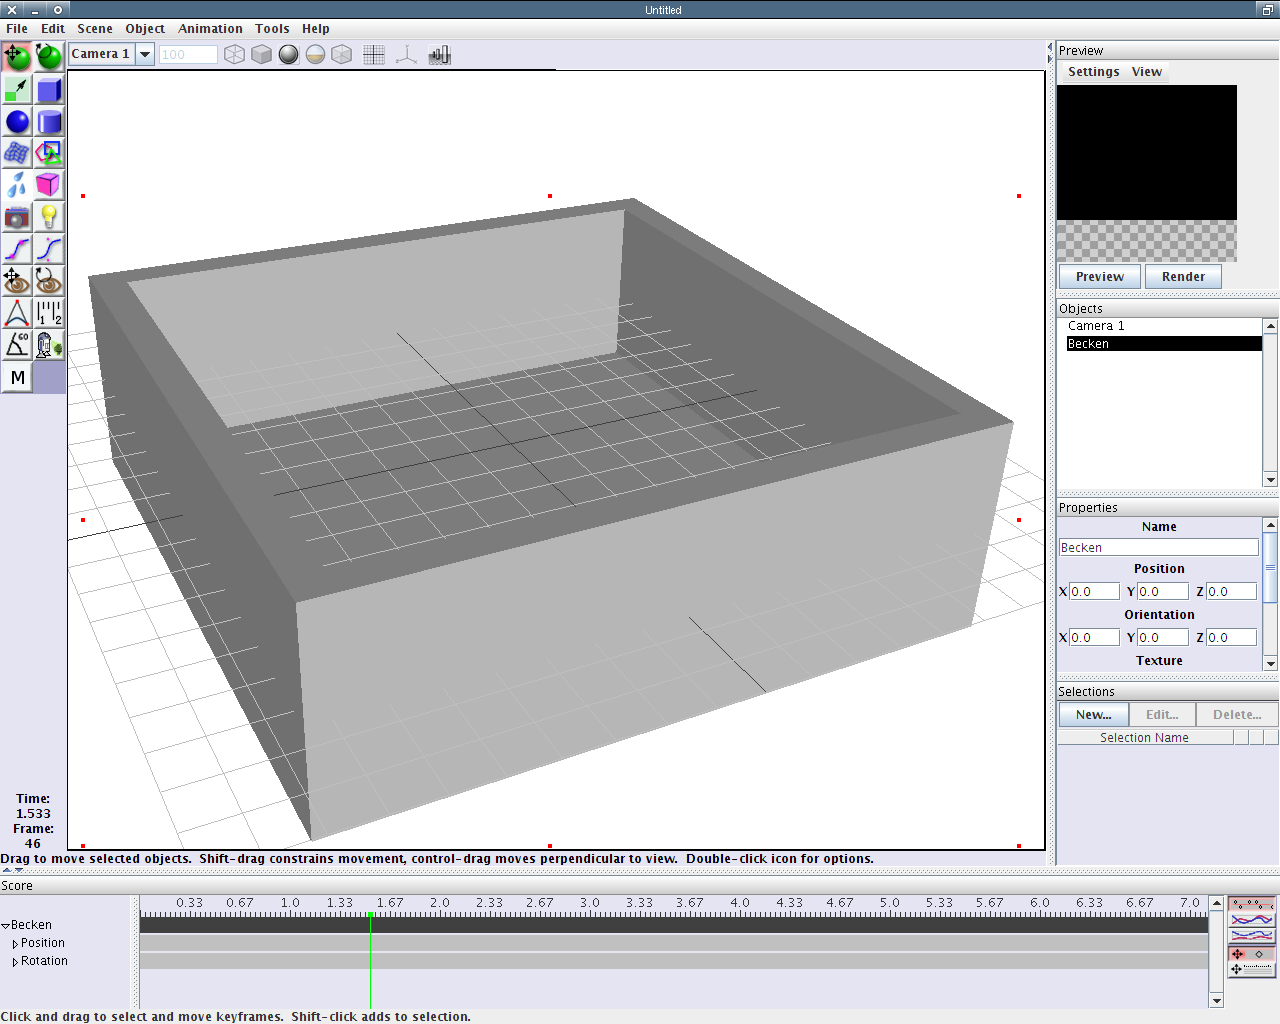
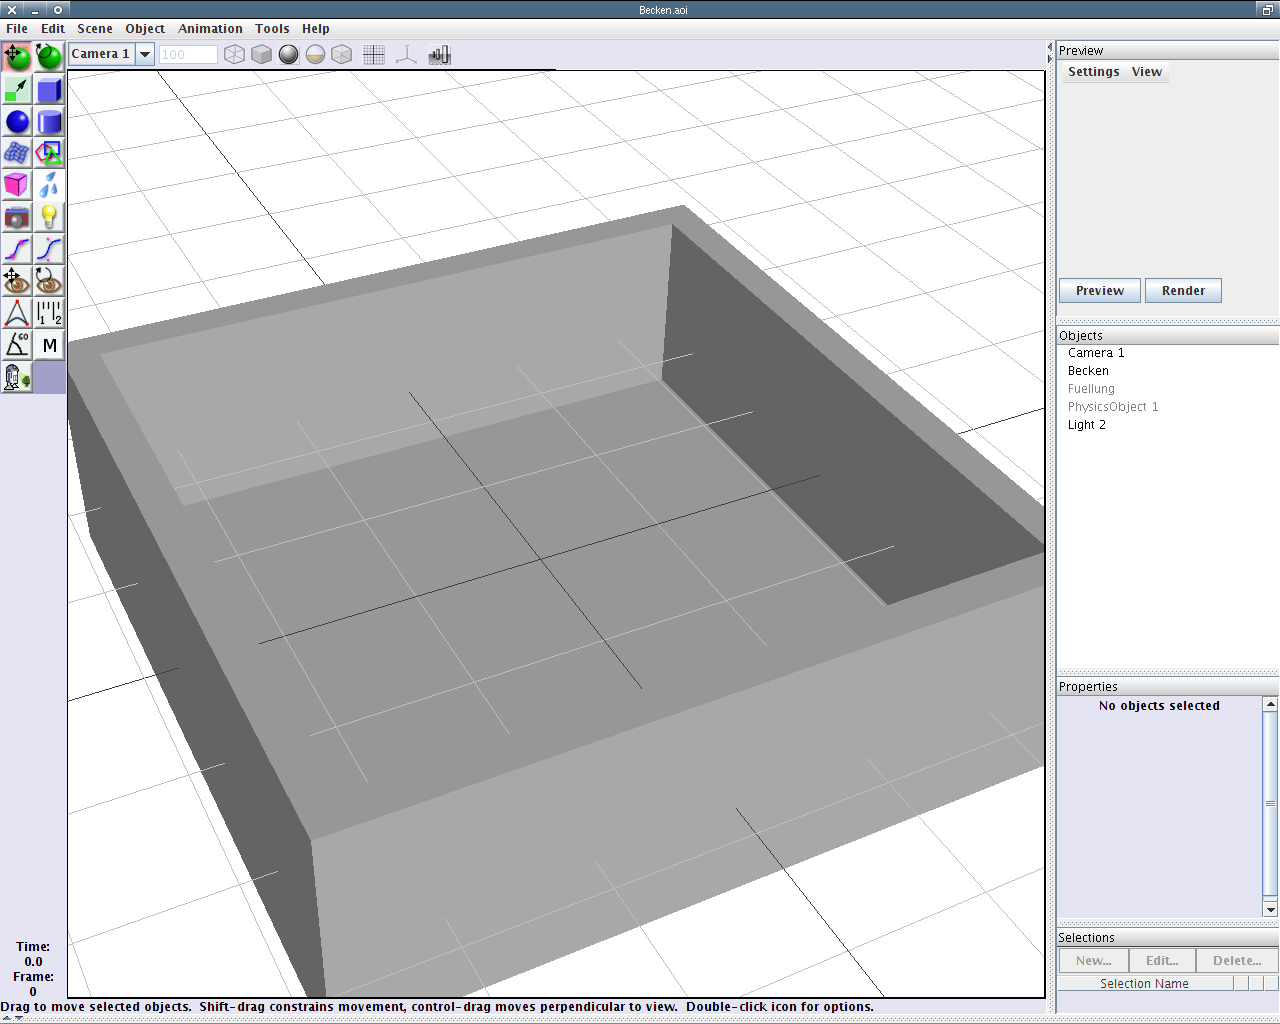
Orientierung/Maßstab im Text hinzugefügt, Becken-Shots korrekt

diff --git a/FluidDoc66.tex b/FluidDoc66.tex
@@ -302,7 +302,8 @@ Objektes als Grenzen, was einiges an Zwischenarbeit erforderte.} Das
 heißt für uns, dass wir ganz komfortabel ein \PolyMesh-Objekt in die
 Szene bringen und dieses unverändert nutzen können. Tun wir das also und
 erstellen uns ein sehr rudimentäres Becken. Um die Übersicht zu wahren,
-nennen wir es um in ">Becken"<.
+nennen wir es um in ">Becken"<. Es sollte ungefähr die Maße
+$6 \times 6 \times 2$ aufweisen.
 
 Eine kurze Randbemerkung: Primitive \aoi-Objekte, also Würfel, Kugeln
 oder Zylinder, können nicht als Hindernisse in der \fluidsim verwendet
@@ -607,9 +608,11 @@ erstellen.
 Der schnellste Weg, das zu tun, ist folgender:
 \itA
 	\item Wir klicken doppelt auf das \PolyMesh-Icon (sic!) und wählen
-	dort als Template ein ">Flat Mesh"< aus. Die Größe setzen wir zum
-	Beispiel auf 5x5. Die ">Smoothing Method"< in \emph{diesem} Dialog
-	muss noch auf ">None"< gesetzt werden.
+	dort als Template ein ">Flat Mesh"< aus. Die Größe setzen wir hier
+	zum Beispiel auf $5 \times 5$, das erstellte Objekt sollte dann etwa
+	die Ausdehnung $4 \times 4$ in AoI-Einheiten besitzen. Die
+	">Smoothing Method"< in \emph{diesem} Dialog muss noch auf ">None"<
+	gesetzt werden.
 
 	\item Nachdem wir ein solches Objekt erstellt haben, wandeln wir es
 	mit einem Rechtsklick in der Objektliste in ein \TriMesh um.
@@ -771,13 +774,14 @@ es dafür genügend andere Tutorials gibt.\footnote{Siehe zum Beispiel:
 einer gewissen Höhe darüber erstellen wir dann zwei einfache Würfel, die
 wir danach in \TriMesh'es konvertieren (befindet sich der Boden der
 Rampe in $Y$-Richtung bei $0$, dann setzen wir die Würfel etwa auf Höhe
-$8$). Damit die Körper auch schön ">soft"< aussehen, setzen wir ihre
-Smoothing Method auf ">Approximating"< -- und damit wir sie auch leicht
-auseinanderhalten können, bekommen sie zwei unterschiedliche Texturen.
-Zuguterletzt drehen wir die beiden noch ganz leicht, um eine gewisse
-Anfangsstörung in das System zu bringen (es ist meistens relativ
-langweilig, Objekte perfekt nach unten fallen zu lassen).
-Abbildung~\ref{fig:rampe1} zeigt ein solches Setup.
+$8$). Diese Würfel selbst sollten etwa die Ausdehnung $2 \times 2 \times
+2$ in AoI-Einheiten haben. Damit die Körper auch schön ">soft"<
+aussehen, setzen wir ihre Smoothing Method auf ">Approximating"< -- und
+damit wir sie auch leicht auseinanderhalten können, bekommen sie zwei
+unterschiedliche Texturen.  Zuguterletzt drehen wir die beiden noch ganz
+leicht, um eine gewisse Anfangsstörung in das System zu bringen (es ist
+meistens relativ langweilig, Objekte perfekt nach unten fallen zu
+lassen). Abbildung~\ref{fig:rampe1} zeigt ein solches Setup.
 
 \fpic{gfx/shots/Rampe1.png}{fig:rampe1}
 {Das fertige Setup mit Rampe und zwei geglätteten Würfeln.}
